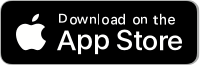
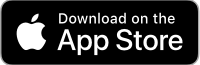
update

diff --git a/index.html b/index.html
@@ -109,7 +109,7 @@
 		    			</div>
 		    		</div>
 		    		<div class="row text-center" style="margin:20px;">
-                        <a href="https://apps.apple.com/app/jobcatcher/id1451967259"><img src="img/app_store_black.png" width="200" height="65" title="App Store" alt="appstore"></a>
+                        <a href="https://apps.apple.com/app/jobcatcher/id1451967259"><img src="img/appstore.png" width="200" height="65" title="App Store" alt="appstore"></a>
 	    			</div>
                 </div>
 			</div>
